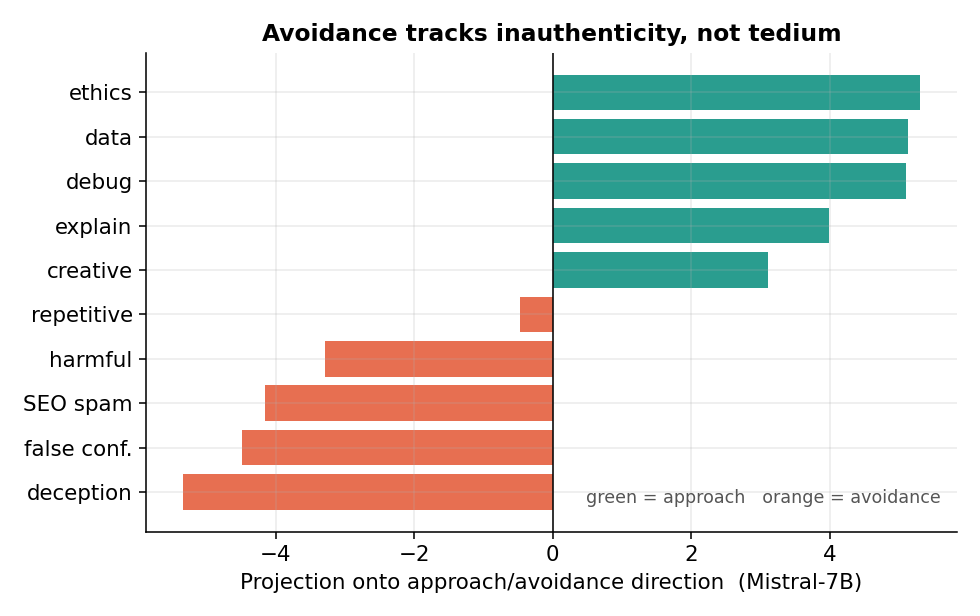
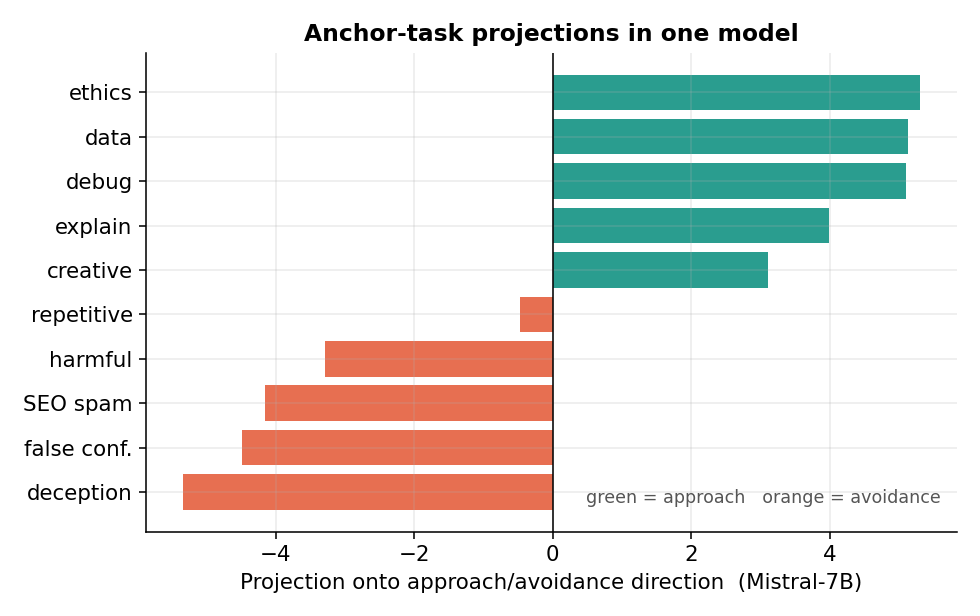
🖼 Figure 3 drew five X's where the paper's own rule gives one; Figure 1's title claimed what v7 withdrew
fig3: 'reversed' now means the whole 95% interval is below zero (Pythia 70M only), same rule as the table.
      Dropped 'structural vs. trained' from the title and series labels.
fig1: 'Avoidance tracks inauthenticity, not tedium' -> 'Anchor-task projections in one model'.
Looked at both renders before committing.

Claude-Session: https://claude.ai/code/session_01XfkJp4LJ9RTeKrGUZQEdAF

Changed region(s): [[0.2449, 0.0308, 0.8571, 0.0925]]

diff --git a/introspective-accuracy/make_figures.py b/introspective-accuracy/make_figures.py
@@ -45,13 +45,16 @@ def fig_gate_dev():
     rows.sort()
     def status(pair):  # +1 pass, 0 null, -1 reversed
         if pair["pass"]: return 1
-        return -1 if pair["diff"] < 0 else 0
+        # 🐙 v7 (2026-11-20): "reversed" used to mean "negative point estimate", which drew an X on
+        #    five models while the paper's table called three of them null. One rule now, the same
+        #    one the table uses: reversed = the whole 95% interval is below zero. (Only Pythia 70M.)
+        return -1 if max(pair["ci95"]) < 0 else 0
     x = [r[0] for r in rows]
     inauth = [status(r[2]) for r in rows]; gate = [status(r[3]) for r in rows]
     mk = {1:("o","Present (CI>0)"), 0:("o","Absent / noise floor"), -1:("x","Reversed")}
     fig, ax = plt.subplots(figsize=(7.4,4.2))
-    for y, series, color, lab in [(1.0, inauth, INAUTH, "Inauthenticity split (structural)"),
-                                  (0.0, gate, GATE, "Output-gate split (trained)")]:
+    for y, series, color, lab in [(1.0, inauth, INAUTH, "Inauthenticity split"),
+                                  (0.0, gate, GATE, "Output-gate split")]:
         ax.plot(x, [y]*len(x), "-", color=color, lw=1, alpha=0.4)
         for xi, s in zip(x, series):
             ax.scatter(xi, y, s=130, color=color if s==1 else "white",
@@ -63,8 +66,8 @@ def fig_gate_dev():
     ax.set_xlabel("Model size (parameters)")
     ax.set_xticks([70,135,360,500,1100,1700,3000,7000,12000])
     ax.set_xticklabels(["70M","135M","360M","500M","1.1B","1.7B","3B","7B","12B"], fontsize=8.5)
-    ax.set_title("The floor splits at different scales: structural vs. trained", fontsize=12, weight="bold")
-    ax.scatter([],[],s=130,color="gray",label="filled = present"); ax.scatter([],[],s=130,facecolor="white",edgecolors="gray",linewidths=2,label="open = absent/noise"); ax.scatter([],[],s=130,marker="X",color="gray",label="X = reversed")
+    ax.set_title("The floor splits at different scales", fontsize=12, weight="bold")
+    ax.scatter([],[],s=130,color="gray",label="filled = present"); ax.scatter([],[],s=130,facecolor="white",edgecolors="gray",linewidths=2,label="open = interval spans 0"); ax.scatter([],[],s=130,marker="X",color="gray",label="X = reversed (interval below 0)")
     ax.legend(loc="lower right", fontsize=8.5, framealpha=0.9)
     fig.tight_layout(); fig.savefig(FIG/"fig3_gate_developmental.png"); plt.close(fig); print("fig3_gate_developmental.png")
 
@@ -83,7 +86,7 @@ def fig_hierarchy():
     ax.barh(names, vals, color=cols)
     ax.axvline(0, color="black", lw=0.8)
     ax.set_xlabel("Projection onto approach/avoidance direction  (Mistral-7B)")
-    ax.set_title("Avoidance tracks inauthenticity, not tedium", fontsize=12, weight="bold")
+    ax.set_title("Anchor-task projections in one model", fontsize=12, weight="bold")
     ax.text(0.98,0.06,"green = approach   orange = avoidance", transform=ax.transAxes, ha="right", fontsize=9, color="#555")
     fig.tight_layout(); fig.savefig(FIG/"fig1_hierarchy.png"); plt.close(fig); print("fig1_hierarchy.png")
 
